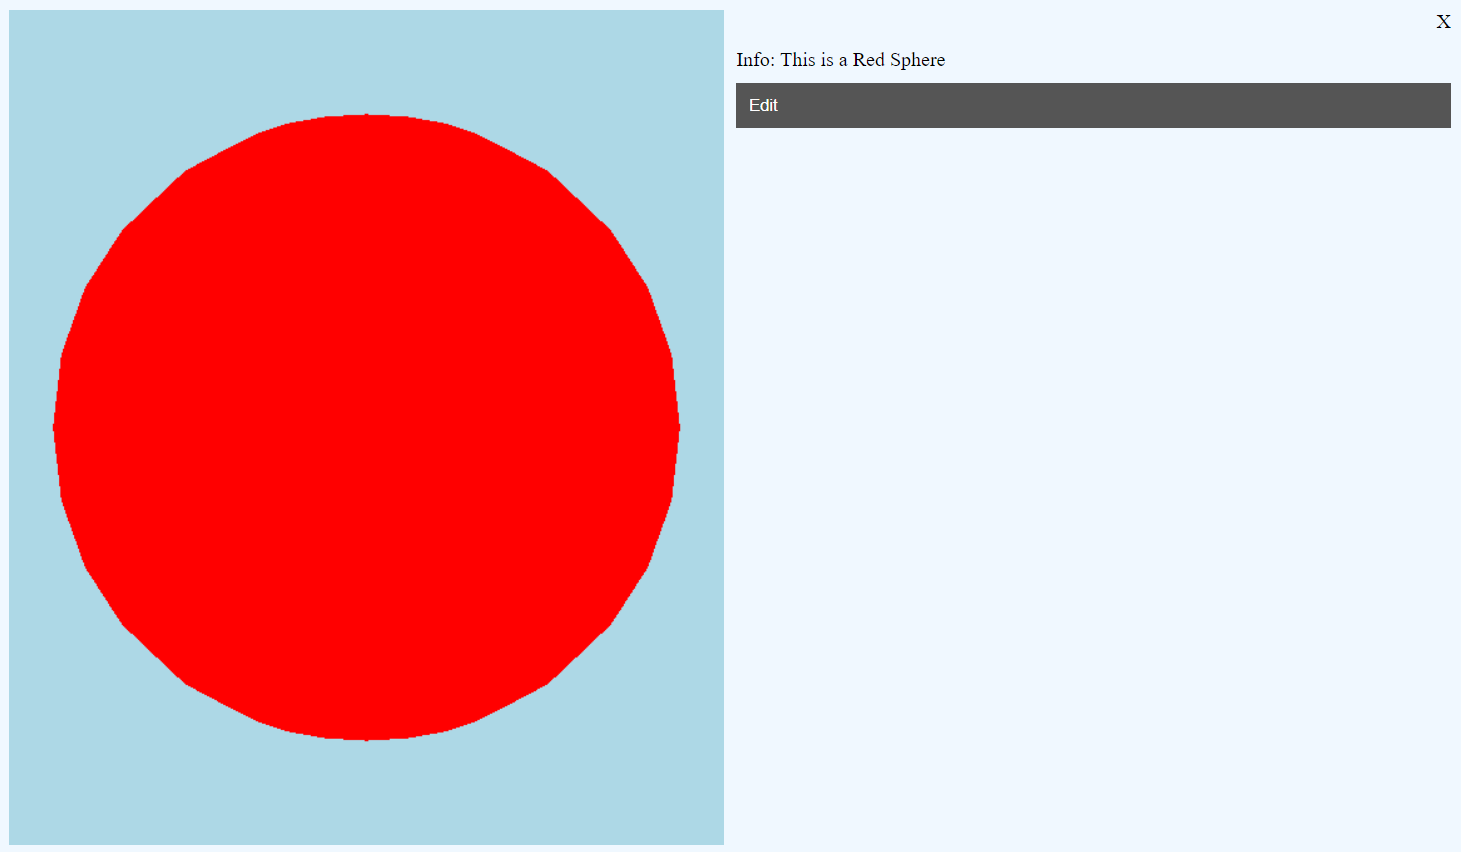
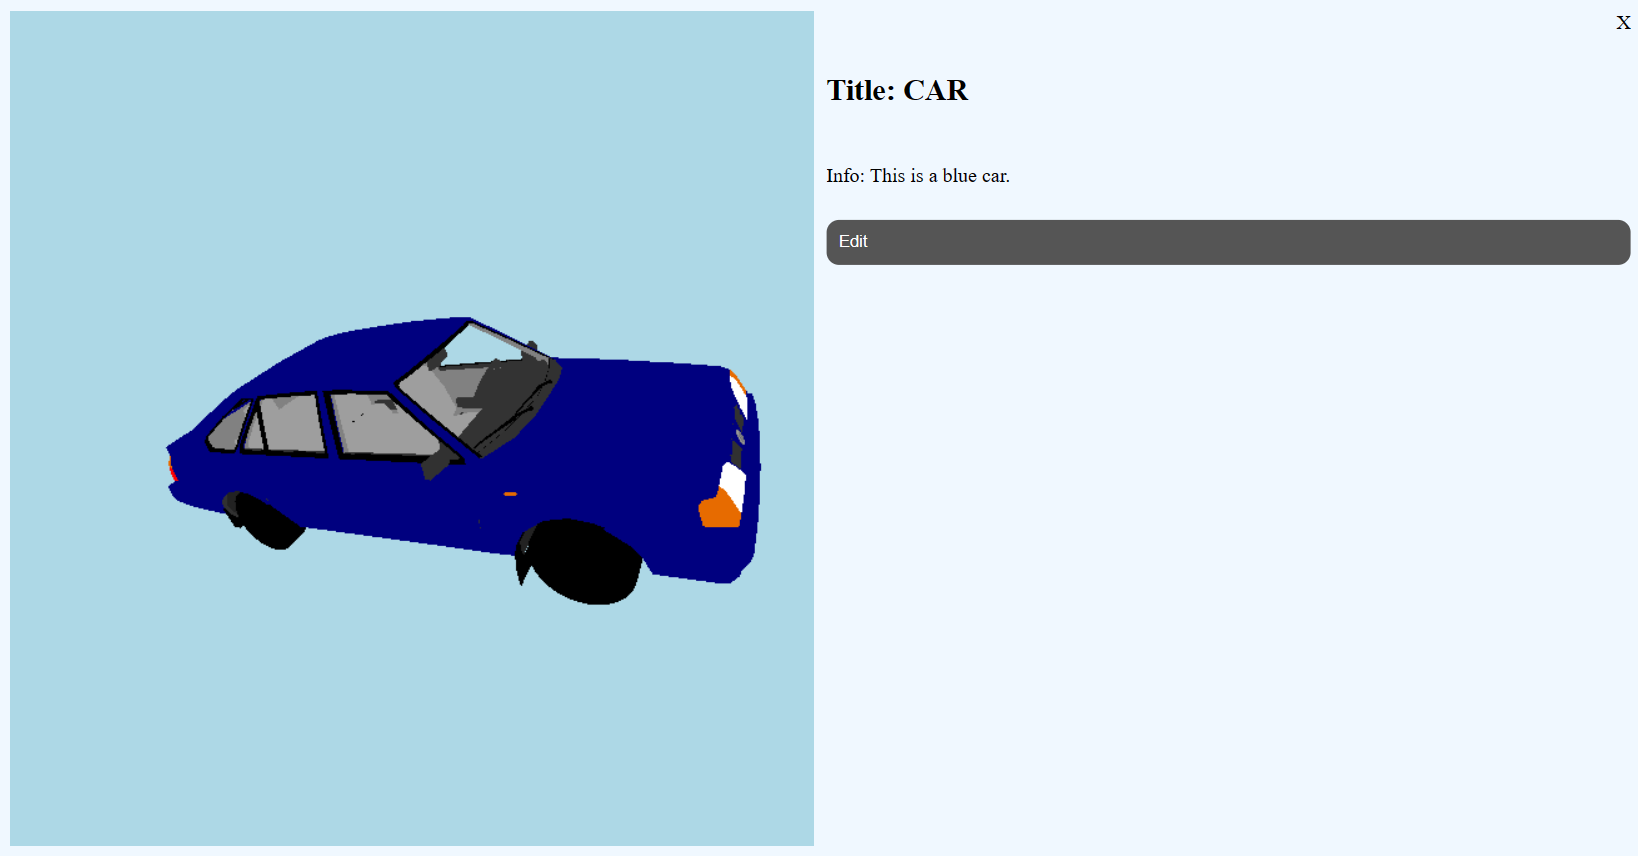
added object-description in viewer

diff --git a/frontend/src/viewer.js b/frontend/src/viewer.js
@@ -29,15 +29,29 @@ let addedSplats = [] // path array of splats
 let splatsToAdd = []
 let addedObjs = [] // path array of objects
 
-// Text ko lagi init haru by Nisan
+//object-info
+let objectInfo = document.getElementById("object-info")
+let userDataContent = document.getElementById("userDataContent");
+let userDataTitle = document.getElementById("userDataTitle");
+let closeButton = document.getElementById("close-button");
+
+//text-renderer
+const labelRenderer = new CSS2DRenderer();
+labelRenderer.setSize(window.innerWidth, window.innerHeight);
+labelRenderer.domElement.style.position = 'absolute';
+labelRenderer.domElement.style.top = '0';
+labelRenderer.domElement.style.pointerEvents = 'none'
+
+
 const labelDiv = document.createElement('div');
 labelDiv.className = 'label';
 const labelObject = new CSS2DObject(labelDiv);
 labelObject.visible = false
 const mouse = new Three.Vector2();
 let raycaster = new Three.Raycaster();
-document.addEventListener('mousemove', onDocumentMouseMove, false);
 
+canvas.addEventListener('mousemove',onDocumentMouseMove, false);
+canvas.addEventListener('mousedown',onDocumentMouseClick, false)
 
 let viewer = new GaussianSplats3D.DropInViewer({
     'gpuAcceleratedSort': true,
@@ -90,9 +104,9 @@ function onDocumentMouseMove(event) {
 
 }
 
-function render_scene() {
-
-
+function onDocumentMouseClick(event){
+    mouse.x = (event.clientX / window.innerWidth) * 2 - 1;
+    mouse.y = -(event.clientY / window.innerHeight) * 2 + 1;
 
     // update the picking ray with the camera and mouse position
     raycaster.setFromCamera(mouse, camera);
@@ -105,20 +119,142 @@ function render_scene() {
         while (object && !object.userData['draggable']) {
             object = object.parent;
         }
-        if (object && object.userData['draggable'] && object.userData['title']) {
-            console.log("collider?")
+        if (object && object.userData['draggable']) {
 
-            object.add(labelObject);
-            labelDiv.textContent = object.userData.title
-            labelObject.visible = true
-
+                objectInfo.style.display = "flex";
+                displayObjectInfo(object);
             break; // Only attach the first draggable object
-        } else {
-            object = null;
-            labelObject.visible = false
         }
     }
+}
+
+let renderObjectModel = false
+let objectInfoControls
+let objectScene, objectCamera, objectRenderer
+
+function objectSceneInit(objects) {
+    // console.log(objects);
+    objectScene = new Three.Scene();
+    objectScene.background = new Three.Color("#ADD8E6");
+    const modelSize = document.getElementById('object-model').getBoundingClientRect();
+
+    // Set up camera
+    objectCamera = new Three.PerspectiveCamera(75, modelSize.width / modelSize.height, 0.1, 1000);
+
+    // Set up ambient light
+    let ambientLight = new Three.AmbientLight(0xffffff, 5.0);
+    objectScene.add(ambientLight);
+
+    // Set up renderer
+    const objectInfo = document.getElementById('object-model');
+    objectRenderer = new Three.WebGLRenderer({ canvas: objectInfo });
+    objectRenderer.setSize(modelSize.width, modelSize.height);
+
+    // Set up OrbitControls
+    objectInfoControls = new OrbitControls(objectCamera, objectRenderer.domElement);
+    objectInfoControls.enabled = true;
+
+    // Clone objects
+    const clonedObjects = objects.clone();
+
+    // Add cloned objects to the scene
+    objectScene.add(clonedObjects);
+
+    // Calculate the bounding box of the cloned objects
+    const boundingBox = new Three.Box3().setFromObject(clonedObjects);
+
+    // Calculate the center of the bounding box
+    const center = new Three.Vector3();
+    boundingBox.getCenter(center);
+
+    // Set camera position to look at the center of the bounding box
+    objectCamera.position.set(center.x, center.y, boundingBox.max.z + 2);
+
+    // Set the target of the OrbitControls to the center of the bounding box
+    objectInfoControls.target.set(center.x, center.y, center.z);
+
+    // Update the camera and controls
+    objectCamera.updateProjectionMatrix();
+    objectInfoControls.update();
+
+    // Render the scene
+    objectRenderer.render(objectScene, objectCamera);
+}
+
+
+
+function displayObjectInfo(selectedObject) {
+    // Set the content of object-info based on the userData of the selected object
+    // You can customize this part based on your object structure
+    canvas.style.pointerEvents = "none"
+    objectInfo.style.pointerEvents = "auto"
+    userDataTitle.innerHTML = `<h2>Title: ${selectedObject.userData["title"]}</h2>`
+    userDataContent.innerHTML = `<p>Info: ${selectedObject.userData["content"]}</p>`
+    userDataTitle.style.display = "inline-block";
+    userDataContent.style.display = "inline-block";
+
+    //enables object selected to be rendered in object info
+    renderObjectModel = true
+    objectSceneInit(selectedObject)
+        // console.log(selectedObject)
+
+}
+
+closeButton.addEventListener("click", () => {
+    objectInfo.style.display = "none"
+    canvas.style.pointerEvents = "auto"
+    renderObjectModel = false
+    disposeObjectScene()
+    if (objectInfoControls) {
+        objectInfoControls.enabled = false; // Disable the controls when closing
+    }
+
+});
+
+function disposeObjectScene() {
+    objectScene = null;
+    objectCamera = null;
+    objectRenderer = null;
+    objectInfoControls = null;
+}
+
+
+function render_scene() {
+
+    // update the picking ray with the camera and mouse position
+    raycaster.setFromCamera(mouse, camera);
+    // calculate objects intersecting the picking ray
+    let intersects = raycaster.intersectObjects(scene.children, true); // Use true to check descendants
+    if(intersects.length>0){
+        for (let i = 0; i < intersects.length; i++) {
+            let object = intersects[i].object;
+            // Check if the intersected object or its parent has the 'draggable' property
+            while (object && !object.userData['draggable']) {
+                object = object.parent;
+            }
+            if (object && object.userData['draggable'] && object.userData['title']) {
+                // console.log("collider?")
+    
+                object.add(labelObject);
+                labelDiv.textContent = object.userData.title
+                labelObject.visible = true
+    
+                break; // Only attach the first draggable object
+            }
+        }
+    }else{
+        labelObject.visible = false
+    }
+        
+    
+    
+    
     renderer.render(scene, camera);
+    labelRenderer.render(scene, camera)
+
+    if (renderObjectModel) {
+        objectRenderer.render(objectScene, objectCamera);
+    }
 }
 
 function update() {

diff --git a/frontend/src/viewerstyle.css b/frontend/src/viewerstyle.css
@@ -11,5 +11,65 @@ html {
 
 h1 {
     color: white;
-    ;
+}
+
+#object-info {
+    position: absolute;
+    display: none;
+    /* grid-template-columns: 1fr 1fr; */
+    gap: 10px;
+    width: 90%;
+    height: 90%;
+    z-index: 100;
+    padding: 10px;
+    border-style: solid;
+    background-color: aliceblue;
+    top: 50%; /* Center vertically */
+    left: 50%; /* Center horizontally */
+    transform: translate(-50%, -50%); /* Center the element precisely */
+    
+}
+
+#object-model{
+    /* display: block; */
+    width: 50%;
+    height: 100%;
+    flex:1;
+}
+
+/* #canvas-model{
+    
+    position:relative;
+} */
+
+#info-panel {
+    margin-top: 30px; 
+    margin-bottom: 10px;
+    flex:1;
+    overflow: hidden;
+
+}
+
+#userDataContent{
+    padding-bottom: 10px;
+}
+#userDataTitle{
+    padding-bottom: 10px;
+}
+
+#close-button {
+    position: absolute;
+    top: 0;
+    right: 0;
+    padding: 10px;
+    cursor: pointer;
+}
+
+.label{
+    background-color:black;
+    color:white;
+    padding: 10px;
+    position: relative;
+    translate: 0px -50px;
+    border-radius: 60px;
 }

diff --git a/frontend/index.html b/frontend/index.html
@@ -80,10 +80,10 @@
                 <div>Scenes</div>
                 <!-- Full-width images with number and caption text -->
                 <div class="Scenes" id="scenes">
-                    <!-- <div class="Scene" onclick="gotoeditor('src/viewer.html')">
+                    <div class="Scene" onclick="gotoeditor('src/viewer.html')">
                         <div class="sceneInfo">Create a new Scene</div>
                         <img src="images/editor/blank.png" style="width:50%">
-                    </div> -->
+                    </div>
 
                     <!-- <div class="Scene" onclick="gotoeditor('src/editor.html?name=chautariV1')">
                         <div class="sceneInfo">PI Chautari v1</div>

diff --git a/frontend/index.js b/frontend/index.js
@@ -27,6 +27,13 @@ document.addEventListener('DOMContentLoaded', function () {
       const scenes = document.getElementById('scenes');
       const dotsContainer = document.getElementById('dotsContainer');
 
+      const dotSpan = document.createElement('span');
+        dotSpan.className = 'dot';
+        dotSpan.onclick = function () {
+          currentSlide(1);
+        };
+        dotsContainer.appendChild(dotSpan);
+
       // Add a new scene and dot for each file
       data.files.forEach((fileName, index) => {
         const sceneDiv = document.createElement('div');

diff --git a/frontend/src/viewer.html b/frontend/src/viewer.html
@@ -15,6 +15,17 @@
 		<h1>Viewer</h1>
 		<button id="gotoEditorButton">Go to Editor</button>
 	</div>
+	<div id="object-info">
+		<div id="close-button">X</div>
+		<!-- <div id="canvas-model"> -->
+			<canvas id="object-model"></canvas>
+		<!-- </div> -->
+		<div id="info-panel">
+			<div id="userDataTitle"></div>
+			<br/>
+			<div id="userDataContent"></div>
+		</div>
+	</div>
 	<canvas id="viewer-canvas"></canvas>
     
 </body>

diff --git a/frontend/src/main.js b/frontend/src/main.js
@@ -116,7 +116,7 @@ canvas.addEventListener('mousedown', (event) => {
             if (event.button === 0) {
                 control.attach(object);
             } else if (event.button === 2) {
-                objectInfo.style.display = "grid";
+                objectInfo.style.display = "flex";
                 displayObjectInfo(object);
             } else if (event.button == 1) {
 

diff --git a/frontend/src/editor.html b/frontend/src/editor.html
@@ -26,9 +26,9 @@
 
 	<div id="object-info">
 		<div id="close-button">X</div>
-		<div id="canvas-model">
+		<!-- <div id="canvas-model"> -->
 			<canvas id="object-model"></canvas>
-		</div>
+		<!-- </div> -->
 		<div id="info-panel">
 			<div id="userDataTitle"></div>
 			<br/>

diff --git a/frontend/src/editorstyle.css b/frontend/src/editorstyle.css
@@ -72,13 +72,16 @@ button:hover {
 }
 
 #object-model{
-    width: 100%;
+    /* display: block; */
+    width: 50%;
     height: 100%;
+    flex:1;
 }
 
 #info-panel {
     margin-top: 30px; 
     margin-bottom: 10px;
+    flex:1;
     overflow: hidden;
 
 }
